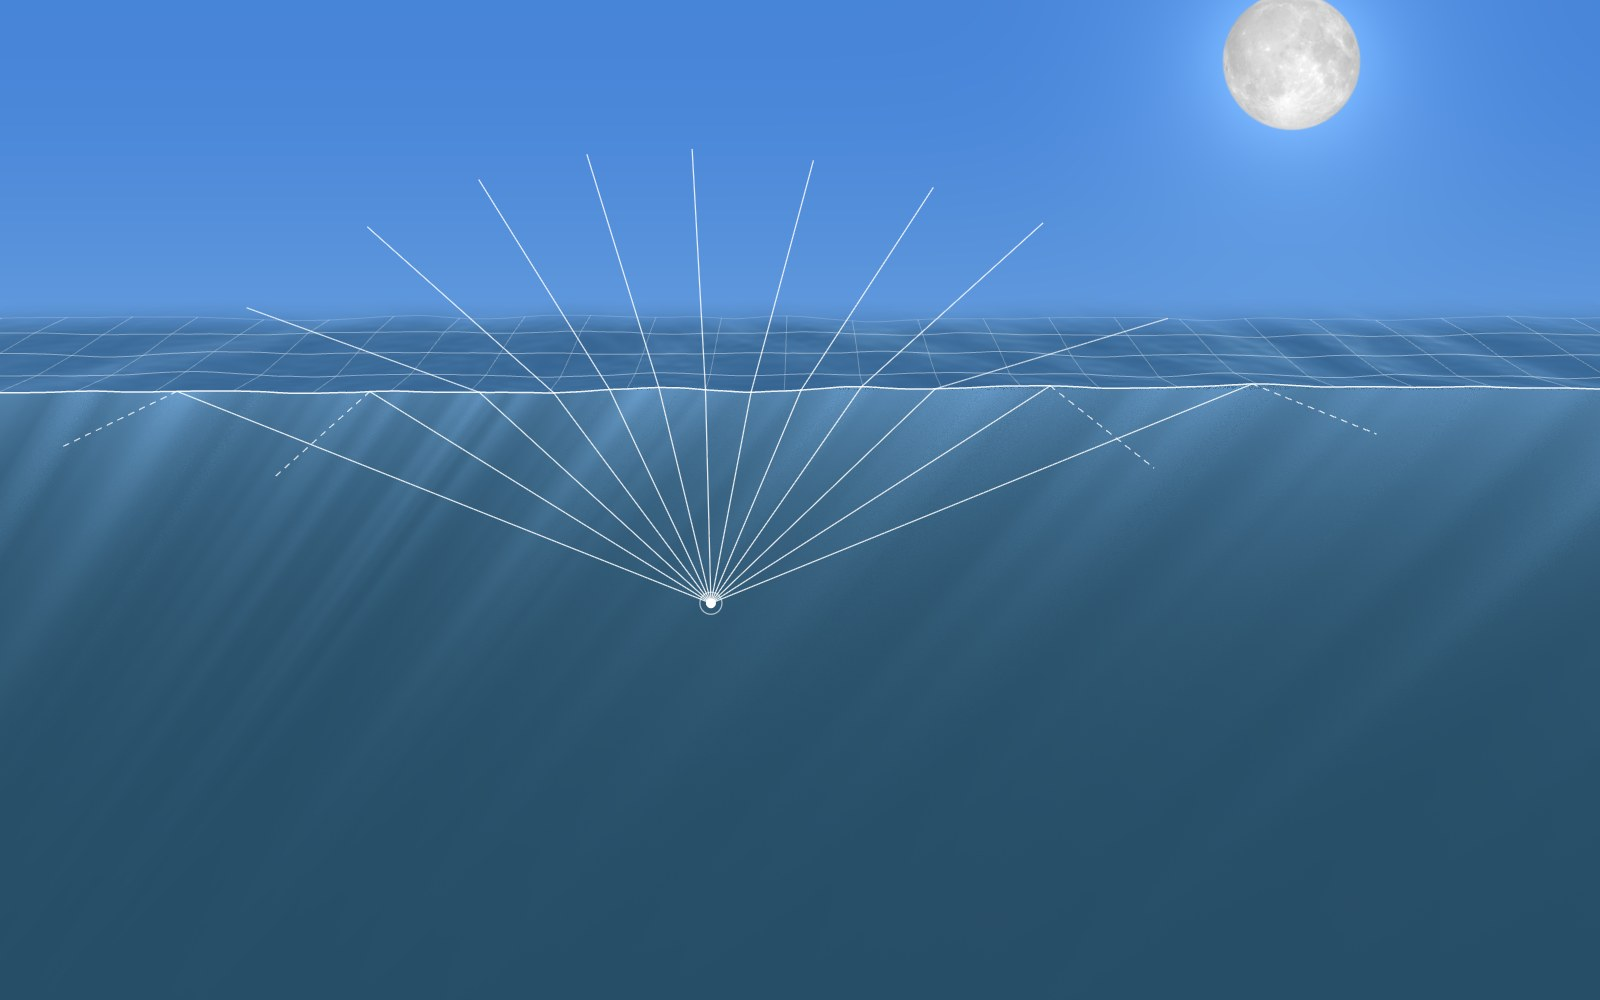
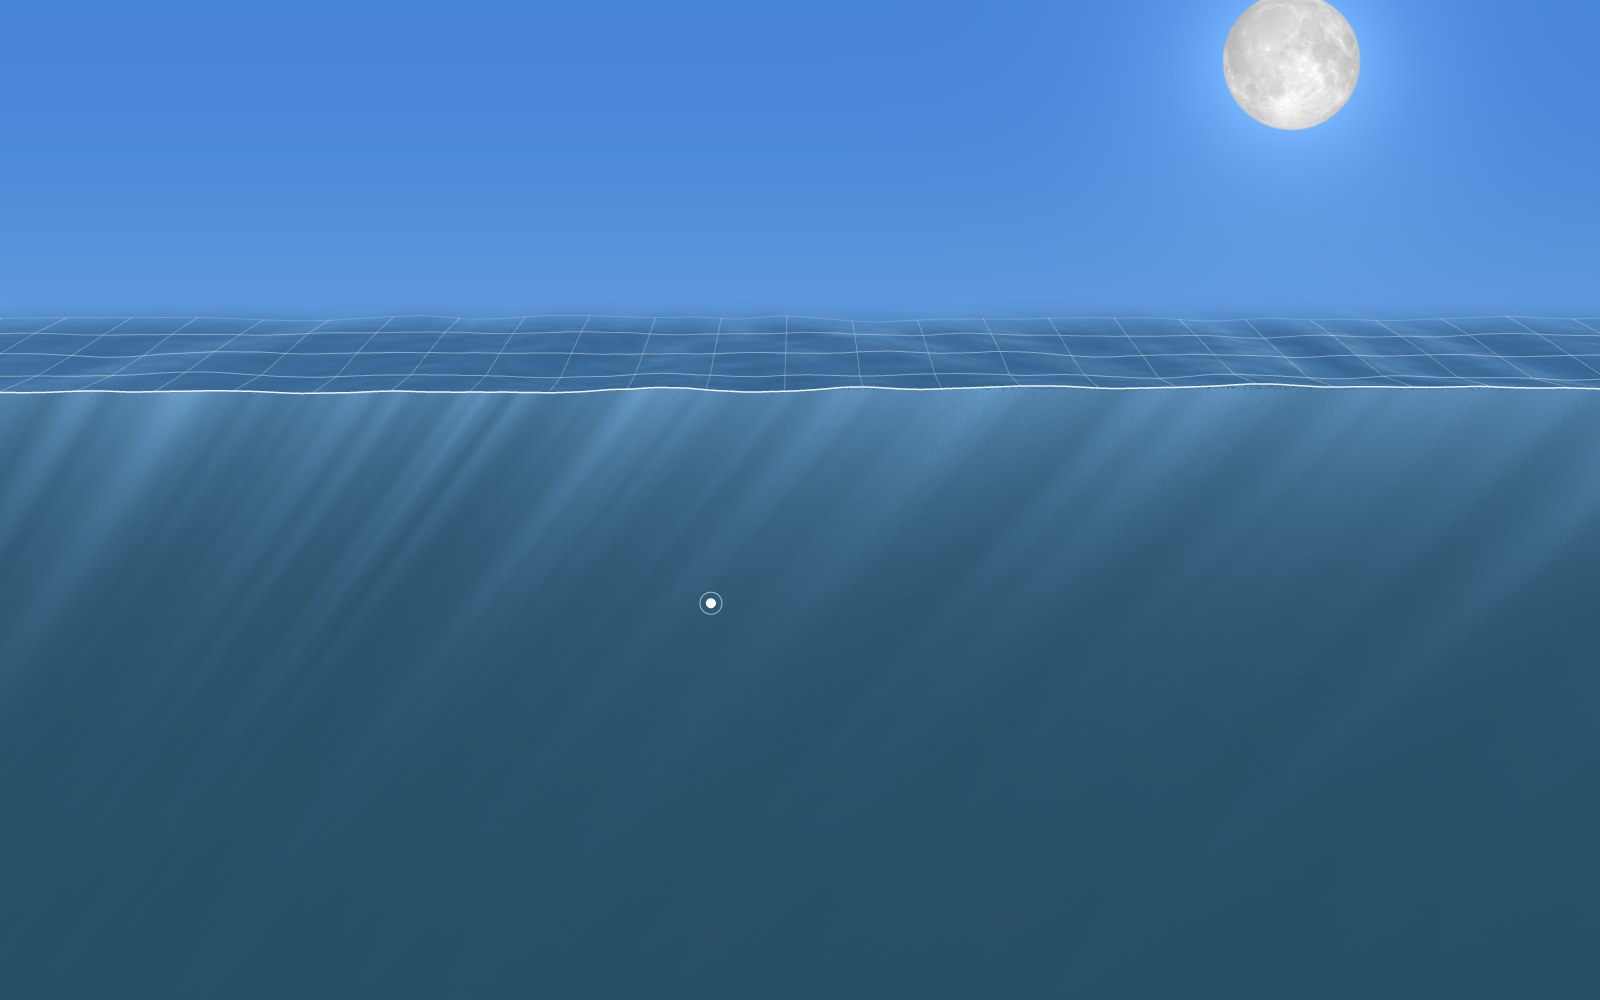
Cut: drop the fan of rays from the overlay; keep the wireframe and the eye

diff --git a/public/games/flymetothemoon/index.html b/public/games/flymetothemoon/index.html
@@ -856,7 +856,7 @@
   //   face shows either the light reaching the eye (a fan converging on it, each direction the colour the
   //   scene shows looking that way, and Snell's window on the surface above it) or god rays as seen from
   //   the side (moonlight refracted down, gathered under the broad waves' crests). A light overlay draws the
-  //   surface as a wireframe and a fan of rays from the eye, bending out or reflecting back.
+  //   surface as a wireframe, and the eye.
   //   Above: across the water from just above it, the moon and its path of light on the waves, the
   //   surface fading into the sky over a long gradient toward the horizon.
   // =====================================================================================
@@ -895,6 +895,7 @@
 
     // ---- Cut ----
     // the surface along the cut, from the scene: slopes for rows x = 0..5 read back from the GPU, integrated into heights
+    // (for the wireframe and the meshes)
     const NP = 2048, ROWS = 6, MARGIN = 15, XB = 5;
     const probeRT = new THREE.WebGLRenderTarget(NP, ROWS, { type: THREE.FloatType, format: THREE.RGBAFormat, depthBuffer: false, minFilter: THREE.NearestFilter, magFilter: THREE.NearestFilter });
     const probeScene = new THREE.Scene();
@@ -921,20 +922,6 @@
     }
     const lerpRow = (A, z) => { const f = Math.max(0, Math.min(NP - 1, (z - pz0) / (pz1 - pz0) * (NP - 1))), i = Math.min(NP - 2, Math.floor(f)), t = f - i; return A[i] + (A[i + 1] - A[i]) * t; };
     const hAt = (x, z) => { const xf = Math.max(0, Math.min(ROWS - 1, x)), j = Math.min(ROWS - 2, Math.floor(xf)), t = xf - j; const a = lerpRow(Hh[j], z); return a + (lerpRow(Hh[j + 1], z) - a) * t; };
-    // a ray from the eye at deg from straight up, in the cut: where it meets the surface, and where it goes next
-    function trace(deg) {
-      const th = deg * Math.PI / 180, dz = Math.sin(th), dy = Math.cos(th), y0 = -V.eyeDepth, z0 = V.eyeZ;
-      let t = 0; for (; t < 60; t += 0.02) if (y0 + dy * t >= hAt(0, z0 + dz * t)) break;
-      if (t >= 60) return null;
-      let a = Math.max(0, t - 0.02), b = t;
-      for (let i = 0; i < 24; i++) { const m = (a + b) / 2; if (y0 + dy * m >= hAt(0, z0 + dz * m)) b = m; else a = m; }
-      const z = z0 + dz * b, y = y0 + dy * b, sl = lerpRow(Sz[0], z);
-      const nl = Math.hypot(sl, 1), nz = -sl / nl, ny = 1 / nl, ci = dz * nz + dy * ny, k = 1 - 1.777 * (1 - ci * ci);
-      const r = { y, z };
-      if (k >= 0) { const c = 1.333 * ci - Math.sqrt(k); r.out = [1.333 * dz - c * nz, 1.333 * dy - c * ny]; r.T = 1 - (0.0204 + 0.9796 * Math.pow(1 - Math.sqrt(k), 5)); }
-      else r.refl = [dz - 2 * ci * nz, dy - 2 * ci * ny];
-      return r;
-    }
     const cutCam = new THREE.PerspectiveCamera(38, 1, 0.1, 600), CZ = 1.2;
     function placeCut() {
       const asp = innerWidth / innerHeight, tv = Math.tan(THREE.MathUtils.degToRad(19));
@@ -1032,15 +1019,8 @@
       for (let j = 4; j >= 0; j--) { const pts = []; for (let z = z0; z <= z1; z += dz) pts.push(S(j, hAt(j, z), z)); og.globalAlpha = j ? 0.4 * (1 - Math.max(0, j - 2.6) / 2.4) : 0.9; og.lineWidth = j ? 1 : 1.5; line(pts); }
       og.globalAlpha = 0.25; og.lineWidth = 1;
       for (let z = Math.ceil(z0); z <= z1; z += 1) { const pts = []; for (let x = 0; x <= 4.001; x += 0.5) pts.push(S(x, hAt(x, z), z)); line(pts); }
-      // a fan of rays from the eye: out through the surface (fainter as less gets through), or reflected back (dashed)
+      // the eye
       const E = S(0, -V.eyeDepth, V.eyeZ);
-      og.lineWidth = 1.3;
-      for (let d = -66; d <= 66.01; d += 11) {
-        const r = trace(d); if (!r) continue;
-        const P = S(0, r.y, r.z); og.globalAlpha = 0.85; line([E, P]);
-        if (r.out) { og.globalAlpha = 0.25 + 0.6 * r.T; line([P, S(0, r.y + r.out[1] * 3, r.z + r.out[0] * 3)]); }
-        else { og.globalAlpha = 0.75; og.setLineDash([6, 6]); line([P, S(0, r.y + r.refl[1] * 1.8, r.z + r.refl[0] * 1.8)]); og.setLineDash([]); }
-      }
       og.globalAlpha = 1; og.fillStyle = '#fff'; og.beginPath(); og.arc(E[0], E[1], 5, 0, 7); og.fill();
       og.globalAlpha = 0.6; og.beginPath(); og.arc(E[0], E[1], 11, 0, 7); og.stroke(); og.globalAlpha = 1;
       V.eyeScr = E;

diff --git a/README.md b/README.md
@@ -112,7 +112,7 @@ Halfway through the fade from Day to Sunset:
 
 Two more views put the moon in the sky above the water, where you can move it. Both are drawn with the scene's own code, so they show the same water: the surface is the same simulated ripples, swells and waves, the light is computed the same way, and every colour follows the sky preset.
 
-**Cut** opens the water up and looks at it from the side. The camera's eye sits under the surface; drag it about, or drag anywhere else to move the moon. A light overlay draws the surface as a wireframe and a fan of rays from the eye, each bending out through the surface or, past 48.6° from the local surface, reflecting back down (dashed). The water is lit one of two ways (the **Eye light** / **Side light** button):
+**Cut** opens the water up and looks at it from the side. The camera's eye sits under the surface; drag it about, or drag anywhere else to move the moon. A light overlay draws the surface as a wireframe. The water is lit one of two ways (the **Eye light** / **Side light** button):
 
 - **Eye light**: the light reaching the eye. Every direction from it glows with exactly what the scene shows the camera looking that way, so a fan of light converges on the eye: the sky through Snell's window, the moon's image as its brightest beam, and darkness past the critical angle, all moving with the waves. On the surface above, the same light draws the window as a bright circle.
 - **Side light**: god rays as you'd see them from the side: moonlight refracted down into the water and gathered under the broad waves' crests, shafts with depth that fade as they go down.
